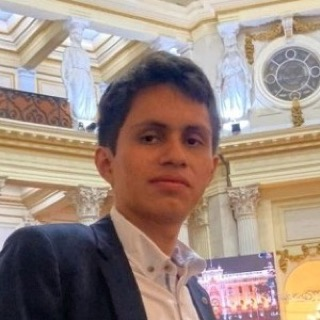
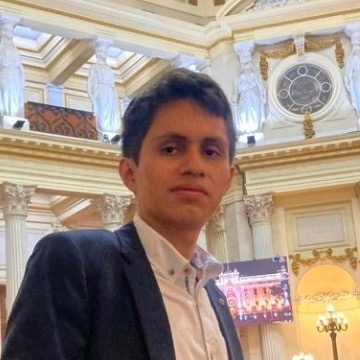
Fotos del equipo más grandes

diff --git a/index.html b/index.html
@@ -30,13 +30,13 @@
   .isabel { display: grid; grid-template-columns: 1fr 440px; gap: 40px; align-items: center; }
   .isabel img { width: 440px; height: auto; display: block; }
   .equipo { display: grid; grid-template-columns: repeat(3, 1fr); gap: 24px; }
-  .equipo div { background: var(--surface); border: 1px solid var(--line); border-radius: 16px; padding: 28px; }
+  .equipo div { background: var(--surface); border: 1px solid var(--line); border-radius: 16px; padding: 20px; }
   .equipo .ini { width: 72px; height: 72px; border-radius: 50%; background: var(--accent); color: #fff; display: grid; place-items: center; font-family: var(--serif); font-size: 30px; font-weight: 700; margin-bottom: 16px; }
-  .equipo .foto { width: 96px; height: 96px; border-radius: 50%; object-fit: cover; display: block; margin-bottom: 16px; }
+  .equipo .foto { width: 100%; aspect-ratio: 1 / 1; height: auto; border-radius: 12px; object-fit: cover; object-position: center 20%; display: block; margin-bottom: 16px; }
   .equipo .ini { width: 96px; height: 96px; }
-  .equipo b { display: block; font-size: 28px; }
-  .equipo span { display: block; font-size: 22px; line-height: 1.4; margin-top: 8px; }
-  .equipo small { display: block; font-size: 17px; color: var(--muted); margin-top: 10px; }
+  .equipo b { display: block; font-size: 24px; }
+  .equipo span { display: block; font-size: 19px; line-height: 1.35; margin-top: 6px; }
+  .equipo small { display: block; font-size: 15px; color: var(--muted); margin-top: 8px; }
   .harari { display: grid; grid-template-columns: 1fr 300px; gap: 48px; align-items: center; }
   .harari figure { margin: 0; }
   .harari img { width: 300px; height: 300px; object-fit: cover; border-radius: 50%; display: block; }
@@ -158,7 +158,7 @@
     <p class="small muted">Falta probarlo con escolares y que la web publicada se actualice sola cada día.</p>
   </section>
 
-  <section class="slide" data-notas="Quiénes somos y qué hizo cada uno. 10 segundos.">
+  <section class="slide" data-notas="Quiénes somos y qué hizo cada uno. 10 segundos." style="padding-top:40px;padding-bottom:40px">
     <div class="kicker">El equipo</div>
     <div class="equipo">
       <div><img class="foto" src="img/mateo.jpg" alt="Mateo Rodríguez"><b>Mateo Rodríguez</b><span>El periódico: noticias de medios confiables, preguntas y revisión con IA</span><small>UTEC · product builder de IA en Zeta</small></div>
